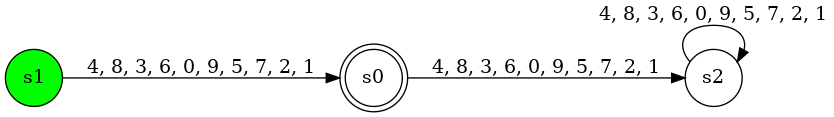
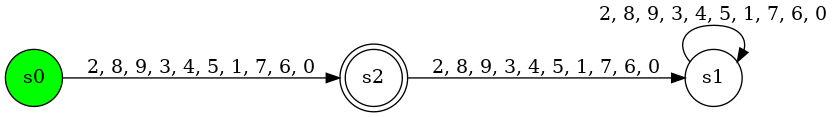
let's see

diff --git a/fileparser.py b/fileparser.py
@@ -6,16 +6,18 @@ from automata.fa.nfa import NFA
 from node import pNFA
 
 language = {
-    '\\': 1,
-    '[': 2,
-    ']': 2,
-    '(': 3,
-    ')': 3,
-    '*': 4,
-    '?': 4,
-    '-': 5,
-    ' ': 5,
-    '|': 7}
+
+    '*': 0,
+    '?': 0,
+    '-': 1,
+    ' ': 1,
+    '|': 2,
+    '\\': 3,
+    '[': 4,
+    ']': 4,
+    '(': 4,
+    ')': 4,
+}
 
 def reader():
     with open('config') as json_file:
@@ -64,16 +66,15 @@ def shunting(text, reference):
 
         else:
             token_priority = language[token]
+            operation_complete = False
+            while operations and not operation_complete:
+                operation_priority = language[operations[-1]]
+                if token_priority >= operation_priority:
+                    output.append(operations.pop())
+                else:
+                    operation_complete = True
+            operations.append(token)
 
-            if not operations:
-                op_priority = -1
-            else:
-                op_priority = language[operations[-1]]
-
-            if token_priority <= op_priority:
-                output.append(token)
-            else:
-                operations.append(token)
 
     while operations:
         output.append(operations.pop())
@@ -90,8 +91,13 @@ def to_pNFA(result: deque):
             stack.append(pNFA(current))
         elif current == '*':
             stack.append(pNFA.kleene_star(stack.pop()))
+            test = stack[-1]
+            nfa = NFA(states=test.states, final_states=test.final_states, initial_state=test.initial_state, transitions=test.transitions, input_symbols=test.input_symbols)
+            dfa = DFA.from_nfa(nfa)
+            dfa.show_diagram('testing.png')
         elif current == ' ':
-            stack.append(pNFA.concat(stack.pop(), stack.pop()))
+            second, first = stack.pop(), stack.pop()
+            stack.append(pNFA.concat(first, second))
         elif current == '|':
             stack.append(pNFA.union(stack.pop(), stack.pop()))
 
@@ -102,6 +108,7 @@ def to_pNFA(result: deque):
 
 
     return final
+
 
 def parse_language(data):
     for key, value in data.items():
@@ -121,40 +128,42 @@ def parse_language(data):
         # dfa = dfa.minify()
 
 
-        states = dfa.states
-        transition_states = ['q{}'.format(i) for i in range(len(states))]
-        transitions_map = dict(zip(states, transition_states))
-        for init_state, inputs in dfa.transitions.items():
-            for symbol, next_states in inputs.items():
-
-                dfa.transitions[init_state][symbol] = transitions_map[next_states]
-
-        for init_state in list(dfa.transitions.keys()):
-            dfa.transitions[transitions_map[init_state]] = dfa.transitions.pop(init_state)
-
-        dfa.states = set(transition_states)
-
-        dfa.final_states = set([transitions_map[i] for i in dfa.final_states])
-        dfa.initial_state = transitions_map[dfa.initial_state]
+        # states = dfa.states
+        # transition_states = ['q{}'.format(i) for i in range(len(states))]
+        # transitions_map = dict(zip(states, transition_states))
+        # for init_state, inputs in dfa.transitions.items():
+        #     for symbol, next_states in inputs.items():
+        #
+        #         dfa.transitions[init_state][symbol] = transitions_map[next_states]
+        #
+        # for init_state in list(dfa.transitions.keys()):
+        #     dfa.transitions[transitions_map[init_state]] = dfa.transitions.pop(init_state)
+        #
+        # dfa.states = set(transition_states)
+        #
+        # dfa.final_states = set([transitions_map[i] for i in dfa.final_states])
+        # dfa.initial_state = transitions_map[dfa.initial_state]
+        dfa.simplify('q')
         dfa = dfa.minify()
-        states = dfa.states
-        transition_states = ['s{}'.format(i) for i in range(len(states))]
-        transitions_map = dict(zip(states, transition_states))
-        for init_state, inputs in dfa.transitions.items():
-            for symbol, next_states in inputs.items():
-                dfa.transitions[init_state][symbol] = transitions_map[next_states]
-
-        for init_state in list(dfa.transitions.keys()):
-            dfa.transitions[transitions_map[init_state]] = dfa.transitions.pop(init_state)
-
-        dfa.states = set(transition_states)
-
-        dfa.final_states = set([transitions_map[i] for i in dfa.final_states])
-        dfa.initial_state = transitions_map[dfa.initial_state]
-
-        print(dfa.transitions)
-        print(dfa.states)
-        print(dfa.final_states)
+        # states = dfa.states
+        # transition_states = ['s{}'.format(i) for i in range(len(states))]
+        # transitions_map = dict(zip(states, transition_states))
+        # for init_state, inputs in dfa.transitions.items():
+        #     for symbol, next_states in inputs.items():
+        #         dfa.transitions[init_state][symbol] = transitions_map[next_states]
+        #
+        # for init_state in list(dfa.transitions.keys()):
+        #     dfa.transitions[transitions_map[init_state]] = dfa.transitions.pop(init_state)
+        #
+        # dfa.states = set(transition_states)
+        #
+        # dfa.final_states = set([transitions_map[i] for i in dfa.final_states])
+        # dfa.initial_state = transitions_map[dfa.initial_state]
+        #
+        # print(dfa.transitions)
+        # print(dfa.states)
+        # print(dfa.final_states)
+        dfa.simplify('s')
         dfa.show_diagram('{}.png'.format(key))
 
         yield key, ans

diff --git a/automata/fa/dfa.py b/automata/fa/dfa.py
@@ -329,3 +329,19 @@ class DFA(fa.FA):
         if path:
             graph.write_png(path)
         return graph
+
+    def simplify(self, identifier):
+        states = self.states
+        transition_states = ['{}{}'.format(identifier, i) for i in range(len(states))]
+        transitions_map = dict(zip(states, transition_states))
+
+        for init_state, inputs in self.transitions.items():
+            for symbol, next_states in inputs.items():
+                self.transitions[init_state][symbol] = transitions_map[next_states]
+
+        for init_state in list(self.transitions.keys()):
+            self.transitions[transitions_map[init_state]] = self.transitions.pop(init_state)
+
+        self.states = set(transition_states)
+        self.final_states = set([transitions_map[i] for i in self.final_states])
+        self.initial_state = transitions_map[self.initial_state]
